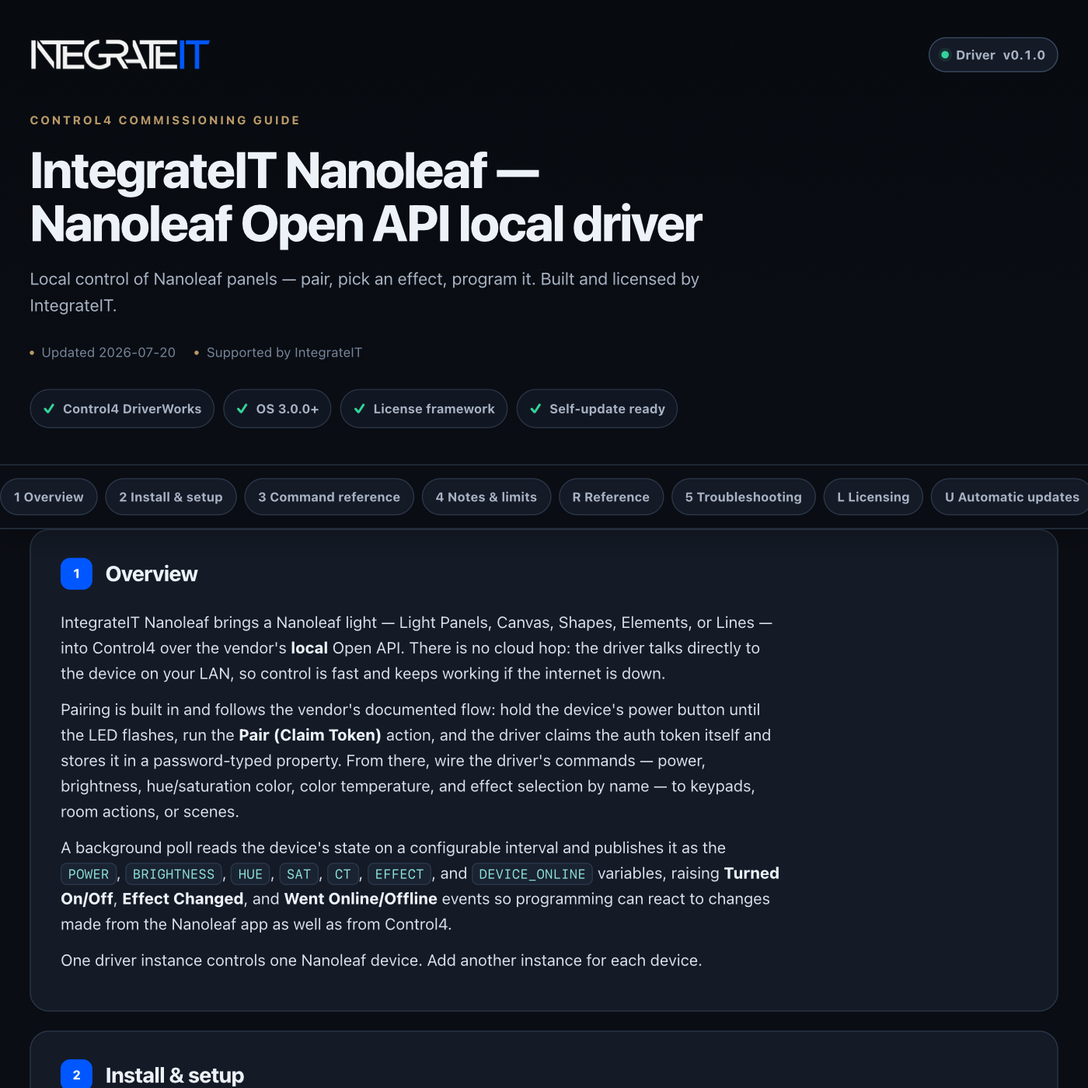
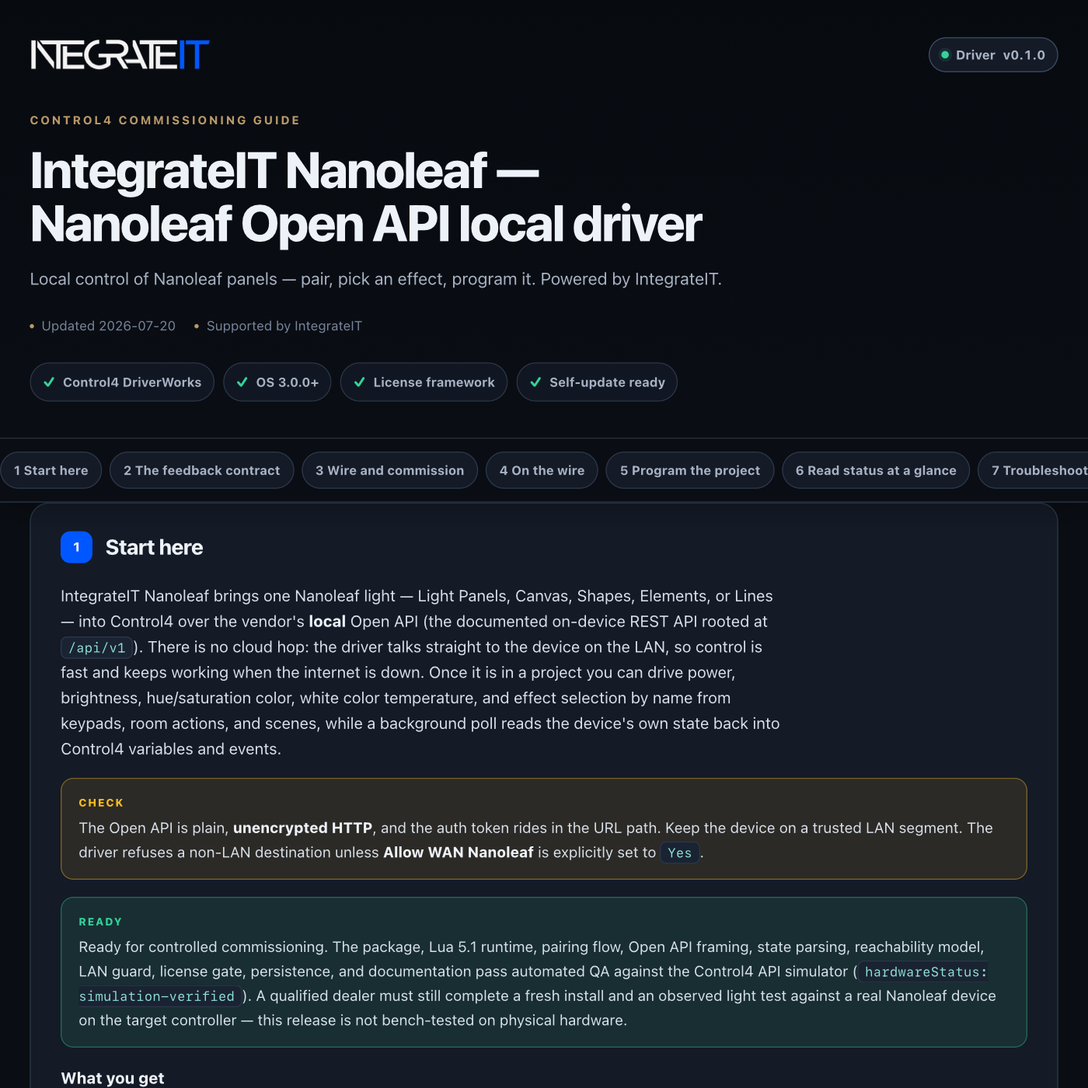
control4: publish driver channel (integrateit_nanoleaf 0.1.1)

diff --git a/control4/integrateit_nanoleaf/documentation.html b/control4/integrateit_nanoleaf/documentation.html
@@ -179,13 +179,13 @@ td code{white-space:normal}
     <div class="wrap">
       <div class="brandbar">
[1 lines of base64/hex data omitted]
-        <span class="version"><span class="word">Driver</span> v0.1.0</span>
+        <span class="version"><span class="word">Driver</span> v0.1.1</span>
       </div>
       <p class="eyebrow">Control4 commissioning guide</p>
       <h1>IntegrateIT Nanoleaf — Nanoleaf Open API local driver</h1>
-      <p class="sub">Local control of Nanoleaf panels — pair, pick an effect, program it. Built and licensed by IntegrateIT.</p>
+      <p class="sub">Local control of Nanoleaf panels — pair, pick an effect, program it. Powered by IntegrateIT.</p>
       <div class="meta">
-        <span>Updated 2026-07-20</span>
+        <span>Updated 2026-07-26</span>
         <span>Supported by IntegrateIT</span>
       </div>
       <div class="readiness" aria-label="Driver capabilities">
@@ -198,58 +198,138 @@ td code{white-space:normal}
   </header>
 
   <div class="toc-wrap">
-    <nav class="toc wrap" aria-label="Documentation sections"><a href="#overview">1 Overview</a><a href="#install">2 Install &amp; setup</a><a href="#commands">3 Command reference</a><a href="#notes">4 Notes &amp; limits</a><a href="#reference">R Reference</a><a href="#troubleshooting">5 Troubleshooting</a><a href="#licensing">L Licensing</a><a href="#updates">U Automatic updates</a><a href="#changelog">V Version history</a></nav>
+    <nav class="toc wrap" aria-label="Documentation sections"><a href="#overview">1 Start here</a><a href="#feedback">2 The feedback contract</a><a href="#setup">3 Wire and commission</a><a href="#protocol">4 On the wire</a><a href="#programming">5 Program the project</a><a href="#status">6 Read status at a glance</a><a href="#troubleshooting">7 Troubleshoot methodically</a><a href="#trust">8 Ownership, privacy, and licensing</a><a href="#reference">R Reference</a><a href="#licensing">L Licensing</a><a href="#updates">U Automatic updates</a><a href="#changelog">V Version history</a></nav>
   </div>
 
   <main class="wrap">
     <section class="card" id="overview" data-card="overview">
-  <h2><span class="n">1</span> Overview</h2>
-  <p>IntegrateIT Nanoleaf brings a Nanoleaf light — Light Panels, Canvas, Shapes, Elements, or Lines — into Control4 over the vendor's <b>local</b> Open API. There is no cloud hop: the driver talks directly to the device on your LAN, so control is fast and keeps working if the internet is down.</p>
-  <p>Pairing is built in and follows the vendor's documented flow: hold the device's power button until the LED flashes, run the <b>Pair (Claim Token)</b> action, and the driver claims the auth token itself and stores it in a password-typed property. From there, wire the driver's commands — power, brightness, hue/saturation color, color temperature, and effect selection by name — to keypads, room actions, or scenes.</p>
-  <p>A background poll reads the device's state on a configurable interval and publishes it as the <code>POWER</code>, <code>BRIGHTNESS</code>, <code>HUE</code>, <code>SAT</code>, <code>CT</code>, <code>EFFECT</code>, and <code>DEVICE_ONLINE</code> variables, raising <b>Turned On/Off</b>, <b>Effect Changed</b>, and <b>Went Online/Offline</b> events so programming can react to changes made from the Nanoleaf app as well as from Control4.</p>
-  <p>One driver instance controls one Nanoleaf device. Add another instance for each device.</p>
+  <h2><span class="n">1</span> Start here</h2>
+  <p>IntegrateIT Nanoleaf brings one Nanoleaf light — Light Panels, Canvas, Shapes, Elements, or Lines — into Control4 over the vendor's <b>local</b> Open API (the documented on-device REST API rooted at <code>/api/v1</code>). There is no cloud hop: the driver talks straight to the device on the LAN, so control is fast and keeps working when the internet is down. Once it is in a project you can drive power, brightness, hue/saturation color, white color temperature, and effect selection by name from keypads, room actions, and scenes, while a background poll reads the device's own state back into Control4 variables and events.</p>
+  <div class="note warn">The Open API is plain, <b>unencrypted HTTP</b>, and the auth token rides in the URL path. Keep the device on a trusted LAN segment. The driver refuses a non-LAN destination unless <b>Allow WAN Nanoleaf</b> is explicitly set to <code>Yes</code>.</div>
+  <div class="note good">Ready for controlled commissioning. The package, Lua 5.1 runtime, pairing flow, Open API framing, state parsing, reachability model, LAN guard, license gate, persistence, and documentation pass automated QA against the Control4 API simulator (<code>hardwareStatus: simulation-verified</code>). A qualified dealer must still complete a fresh install and an observed light test against a real Nanoleaf device on the target controller — this release is not bench-tested on physical hardware.</div>
+  <p><b>What you get</b></p>
+  <ul>
+    <li><b>Power On</b>, <b>Power Off</b>, <b>Toggle Power</b>, <b>Set Brightness</b> (1-100), <b>Set Color</b> (Hue 0-360 + Saturation 0-100), and <b>Set Color Temperature</b> (1200-6500 K white)</li>
+    <li><b>Select Effect</b> by name, with a <b>List Effects</b> action that enumerates every effect on the device</li>
+    <li>Documented pairing built in: hold the power button, run <b>Pair (Claim Token)</b>, and the driver claims and stores the auth token itself</li>
+    <li>A configurable state poll that publishes <code>POWER</code>, <code>BRIGHTNESS</code>, <code>HUE</code>, <code>SAT</code>, <code>CT</code>, <code>EFFECT</code>, and <code>DEVICE_ONLINE</code></li>
+    <li><b>Turned On / Off</b>, <b>Effect Changed</b>, and <b>Went Online / Offline</b> events for Composer programming</li>
+    <li>LAN-only destination guard, an auth token that is never written to the log, and MAC-locked IntegrateIT licensing</li>
+    <li>One driver instance per device — add another instance for each Nanoleaf</li>
+  </ul>
 </section>
 
-<section class="card" id="install" data-card="install">
-  <h2><span class="n">2</span> Install &amp; setup</h2>
+<section class="card" id="feedback" data-card="feedback">
+  <h2><span class="n">2</span> The feedback contract</h2>
+  <p>This driver reports only what the device tells it, and it tells you plainly how it knows:</p>
+  <ul>
+    <li><b>State is polled, not pushed.</b> The driver reads the all-in-one <code>GET /api/v1/&lt;token&gt;/</code> on the <b>Poll Interval</b> (default 5 s). A change made from the Nanoleaf app or a physical button appears on the *next* poll, not instantly — anything claiming instant feedback would be faking it. <b>Refresh State</b> polls immediately when you need it now.</li>
+    <li><b>Boot adoption is silent.</b> The first poll after a (re)start adopts the device's current power and effect *without* firing <b>Turned On/Off</b> or <b>Effect Changed</b> — those fire only on a real change from a value already known. A controller restart wipes what the driver remembered: <code>Device Status</code> reads <code>Unknown</code>, <code>POWER</code> returns to its <code>0</code> default and <code>EFFECT</code> to empty, and the first poll re-primes them silently.</li>
+    <li><b>Reachability is truthful.</b> Any HTTP response — even a <code>401</code> — proves the device is alive and fires <b>Went Online</b>; no response at all (code 0) fires <b>Went Offline</b> and sets <code>DEVICE_ONLINE</code> false. A control write is a reachability check too: a device that dies mid-command flips to Offline immediately instead of waiting for the next poll.</li>
+    <li><b>Toggle is an assumption when state is unknown.</b> The Open API has no toggle verb, so <b>Toggle Power</b> inverts the last polled power. If power has never been observed it turns the light <b>on</b> (documented default) — a Toggle from <code>Unknown</code> is an assumption, not an observation.</li>
+    <li>The driver never invents state values: <code>BRIGHTNESS</code>, <code>HUE</code>, <code>SAT</code>, and <code>CT</code> are the device's own reported numbers, read from the documented <code>{"value":N}</code> shape regardless of JSON key order.</li>
+  </ul>
+</section>
+
+<section class="card" id="setup" data-card="setup">
+  <h2><span class="n">3</span> Wire and commission</h2>
   <ol class="steps">
-    <li>Find the Nanoleaf's <b>IP address</b> (router client list or the Nanoleaf app) and reserve it in your router's DHCP table so it does not change.</li>
-    <li>Add this driver to the device's room. Enter <code>Nanoleaf IP Address</code>. Leave <code>Nanoleaf Port</code> at 16021 for the panel line.</li>
-    <li><b>Pair:</b> hold the device's power button for ~5-7 seconds until the LED starts flashing, then run the <b>Pair (Claim Token)</b> action within 30 seconds. The driver claims the auth token and stores it — you never handle the token yourself.</li>
-    <li>Run <b>Test Connection</b> — it prints the device's name, model, and firmware.</li>
-    <li>Run <b>List Effects</b> and paste your preferred effect name into the <code>Effect</code> property.</li>
-    <li>In Programming, wire the commands (see below), and optionally react to the events or read the variables.</li>
-    <li>Optionally enter a <code>License Key</code> (see Licensing) — the driver runs in Lenient mode without one.</li>
+    <li>Find the Nanoleaf's <b>IP address</b> (router client list or the Nanoleaf app) and reserve it in your router's DHCP table so it never changes.</li>
+    <li>Add <b>IntegrateIT Nanoleaf</b> to the device's room. Enter <b>Nanoleaf IP Address</b>. Leave <b>Nanoleaf Port</b> at <code>16021</code> for the panel line.</li>
+    <li><b>Pair.</b> Hold the device's power button ~5-7 s until the LED flashes, then run <b>Pair (Claim Token)</b> within 30 s. The driver POSTs the claim, stores the returned token in the password-typed <b>Auth Token</b> property, and starts polling. You never handle the token yourself.</li>
+    <li>Run <b>Test Connection</b> — it prints the device's name, model, and firmware and confirms the stored token works.</li>
+    <li>Run <b>List Effects</b> and paste one printed name <b>verbatim</b> into the <b>Effect</b> property — the driver sends it to the device exactly as typed.</li>
+    <li>Wire the commands into Programming (see below); optionally react to the events or read the variables.</li>
+    <li>Optionally enter a <b>License Key</b>. The default <code>Lenient (recommended)</code> mode commissions without one.</li>
+    <li><b>Prove it.</b> Run <b>Power On</b>, or set <b>Brightness</b> and run <b>Set Brightness</b> — watch the light react and <b>Device Status</b> read <code>Online — On, NN%</code>.</li>
   </ol>
+  <div class="note">One driver instance controls one Nanoleaf device. Add a second instance, with its own IP and its own pairing, for each additional Nanoleaf.</div>
 </section>
 
-<section class="card" id="commands" data-card="commands">
-  <h2><span class="n">3</span> Command reference</h2>
-  <ul>
-    <li><b>Power On / Power Off</b> — direct power control. <b>Toggle Power</b> inverts the last polled state (turns on if the state is not yet known).</li>
-    <li><b>Set Brightness</b> sends the <code>Brightness</code> percent (1-100).</li>
-    <li><b>Set Color</b> sends <code>Hue</code> (0-360) and <code>Saturation</code> (0-100) together, switching the device to solid-color mode.</li>
-    <li><b>Set Color Temperature</b> sends the <code>Color Temperature (K)</code> value (1200-6500 K white).</li>
-    <li><b>Select Effect</b> selects the effect named in the <code>Effect</code> property — run <b>List Effects</b> to enumerate the names on the device.</li>
-    <li><b>Refresh State</b> polls immediately instead of waiting for the next interval.</li>
-  </ul>
-  <p><b>Events:</b> *Turned On*, *Turned Off*, *Effect Changed*, *Went Online*, *Went Offline*. <b>Variables:</b> <code>POWER</code>, <code>BRIGHTNESS</code>, <code>HUE</code>, <code>SAT</code>, <code>CT</code>, <code>EFFECT</code>, <code>DEVICE_ONLINE</code>.</p>
+<section class="card" id="protocol" data-card="protocol">
+  <h2><span class="n">4</span> On the wire</h2>
+  <p>Every request is plain JSON over HTTP to <code>http://&lt;ip&gt;:&lt;port&gt;</code>. The auth token is a <b>path segment</b> of every authenticated URL (<code>/api/v1/&lt;token&gt;/…</code>), which makes the URL itself a secret — so the transport <b>never logs a URL</b>, only the method and the sub-path *after* the token. Any body-carrying request declares <code>Content-Type: application/json</code>.</p>
+  <table>
+    <tr><th>Purpose</th><th>Request</th><th>Body / result</th></tr>
+    <tr><td>Claim token (pairing)</td><td><code>POST /api/v1/new</code> (no token)</td><td>none → <code>{"auth_token":"…"}</code></td></tr>
+    <tr><td>Poll state (paired)</td><td><code>GET /api/v1/&lt;token&gt;/</code></td><td>all-in-one device info + state</td></tr>
+    <tr><td>Reachability probe (unpaired)</td><td><code>GET /api/v1/</code> (no token)</td><td>any HTTP response = reachable</td></tr>
+    <tr><td>Power</td><td><code>PUT /api/v1/&lt;token&gt;/state</code></td><td><code>{"on":{"value":true}}</code> / <code>{"on":{"value":false}}</code></td></tr>
+    <tr><td>Brightness</td><td><code>PUT /api/v1/&lt;token&gt;/state</code></td><td><code>{"brightness":{"value":N}}</code></td></tr>
+    <tr><td>Color</td><td><code>PUT /api/v1/&lt;token&gt;/state</code></td><td><code>{"hue":{"value":H},"sat":{"value":S}}</code></td></tr>
+    <tr><td>Color temperature</td><td><code>PUT /api/v1/&lt;token&gt;/state</code></td><td><code>{"ct":{"value":K}}</code></td></tr>
+    <tr><td>Effect</td><td><code>PUT /api/v1/&lt;token&gt;/effects</code></td><td><code>{"select":"Name"}</code></td></tr>
+    <tr><td>List effects</td><td><code>GET /api/v1/&lt;token&gt;/effects/effectsList</code></td><td>the effect-name array</td></tr>
+  </table>
+  <p>Replies the driver acts on: <code>200</code> on a read, any <code>2xx</code> on a write (the state write answers <code>204</code>); <code>401</code> on an authenticated call means the token was rejected (re-pair), while during pairing both <code>401</code> and <code>403</code> mean the pairing window is not open; code <code>0</code> is no response at all (Offline). After a successful write the driver schedules a fast follow-up poll (~400 ms) so published state catches up quickly — the write itself returns no state inline. An effect name is JSON-escaped before it goes on the wire, so a quote in the name can never break out of the payload.</p>
 </section>
 
-<section class="card" id="notes" data-card="notes">
-  <h2><span class="n">4</span> Notes &amp; limits</h2>
+<section class="card" id="programming" data-card="programming">
+  <h2><span class="n">5</span> Program the project</h2>
+  <table>
+    <tr><th>Event</th><th>Fires when</th></tr>
+    <tr><td><code>Turned On</code></td><td>a poll saw power change to on</td></tr>
+    <tr><td><code>Turned Off</code></td><td>a poll saw power change to off</td></tr>
+    <tr><td><code>Effect Changed</code></td><td>the selected effect changed</td></tr>
+    <tr><td><code>Went Online</code></td><td>the device became reachable</td></tr>
+    <tr><td><code>Went Offline</code></td><td>the device stopped responding</td></tr>
+  </table>
+  <table>
+    <tr><th>Variable</th><th>Type</th><th>Meaning</th></tr>
+    <tr><td><code>POWER</code></td><td>BOOL</td><td>Last polled power state</td></tr>
+    <tr><td><code>BRIGHTNESS</code></td><td>STRING</td><td>Last polled brightness percent</td></tr>
+    <tr><td><code>HUE</code> / <code>SAT</code></td><td>STRING</td><td>Last polled hue (0-360) / saturation (0-100)</td></tr>
+    <tr><td><code>CT</code></td><td>STRING</td><td>Last polled white color temperature (K)</td></tr>
+    <tr><td><code>EFFECT</code></td><td>STRING</td><td>Last polled effect name</td></tr>
+    <tr><td><code>DEVICE_ONLINE</code></td><td>BOOL</td><td>Device is currently reachable</td></tr>
+  </table>
+  <p>Three ways these wire into Composer programming:</p>
   <ul>
-    <li><b>Manual IP entry only.</b> mDNS (<code>_nanoleafapi._tcp</code>) and SSDP discovery are documented by Nanoleaf but out of scope for this version — reserve the IP in DHCP.</li>
-    <li><b>Built for the panel line</b> (Light Panels / Canvas / Shapes / Elements / Lines, port 16021). Matter WiFi Essentials products share the API path shape but open their pairing window from the Nanoleaf app and may use a different port; <code>Nanoleaf Port</code> is editable, but Essentials is untested in this version.</li>
-    <li><b>State feedback is polled, not pushed.</b> A change made from the Nanoleaf app appears on the next poll (default 5 seconds), not instantly.</li>
-    <li><b>Local, unencrypted HTTP.</b> Keep the device on a trusted LAN segment. The driver refuses a non-LAN address unless <code>Allow WAN Nanoleaf</code> is set to Yes.</li>
-    <li>The auth token is treated as a secret: the Open API carries it in the URL path, so the driver never writes any URL to the log — even in Debug Mode, log lines show only the path after the token.</li>
-    <li><b>Forget Token</b> clears the stored token locally; the token remains valid on the device until revoked via the vendor's Delete User endpoint or a device reset (not sent by this version).</li>
-    <li>Per-panel external-control streaming, panel layout, rhythm, and identify endpoints are documented by Nanoleaf but out of scope for this version.</li>
+    <li><b>When your Movie scene runs → Select Effect.</b> Set the <b>Effect</b> property to the effect name, then call <b>Select Effect</b> (or <b>Set Color</b> / <b>Set Color Temperature</b>) so one Control4 event drives the panels.</li>
+    <li><b>When Effect Changed fires → read <code>EFFECT</code> and announce it.</b> Because the poll also sees changes made from the Nanoleaf app, Control4 reacts to what the panels actually show, not only to what it commanded.</li>
+    <li><b>When Went Offline fires → notify.</b> <code>DEVICE_ONLINE</code> dropping to false means the panels left the network (moved IP, unplugged) — surface it before someone taps a dead keypad.</li>
   </ul>
+  <p>Control commands are gated by the license: under <code>Strict</code> enforcement an unlicensed controller writes nothing to the device — but polling, pairing, <b>Test Connection</b>, and <b>List Effects</b> stay live, because reading your own device is not a licensed feature. The default <code>Lenient (recommended)</code> mode allows commissioning while <code>License Status</code> carries the nag.</p>
+</section>
+
+<section class="card" id="status" data-card="status">
+  <h2><span class="n">6</span> Read status at a glance</h2>
+  <table>
+    <tr><th>Property</th><th>Healthy result</th><th>What to do otherwise</th></tr>
+    <tr><td><code>Device Status</code></td><td><code>Online — On, 80%, effect …</code></td><td><code>Not paired</code> / <code>Blocked: …</code> / <code>Offline (no response)</code> / <code>Token rejected</code> — act on the exact text</td></tr>
+    <tr><td><code>Device Info</code></td><td><code>name · model · fw version</code></td><td><code>Unknown</code> until the first successful poll — run Test Connection</td></tr>
+    <tr><td><code>Status</code></td><td>The last command, or <code>Idle</code></td><td><code>Blocked: …</code>, <code>Not paired</code>, or <code>Nanoleaf error (HTTP …)</code> — read the reason</td></tr>
+    <tr><td><code>License Status</code></td><td>Activated, or Lenient during commissioning</td><td>Enter a key before selecting Strict enforcement</td></tr>
+  </table>
+  <p><code>Device Status</code> holds exactly one of: <code>Unknown</code>, <code>No Nanoleaf IP set</code>, <code>Blocked: &lt;reason&gt;</code>, <code>Not paired — hold the power button, then run Pair (Claim Token)</code>, <code>Offline (no response)</code>, <code>Online — …</code>, <code>Token rejected (HTTP 401) — re-pair …</code>, or <code>Nanoleaf error (HTTP &lt;code&gt;)</code>.</p>
+  <p><b>Print Configuration</b> writes IP:port, whether a token is set (its length only, never the value), the poll interval, the WAN flag, the color/brightness/CT settings, and the effect to the Lua output window. It never prints the token or the license key.</p>
+</section>
+
+<section class="card" id="troubleshooting" data-card="troubleshooting">
+  <h2><span class="n">7</span> Troubleshoot methodically</h2>
+  <table>
+    <tr><th>Symptom</th><th>Likely cause</th><th>Resolution</th></tr>
+    <tr><td>Nothing responds; <code>Device Status</code> Offline</td><td>Wrong IP, device unplugged, or it moved to a new IP</td><td>Reserve the IP in DHCP; confirm <b>Nanoleaf IP Address</b> and that the device is powered</td></tr>
+    <tr><td>Pair says "Pairing window not open" (HTTP 401/403)</td><td>Power button not held, or the pairing window expired</td><td>Hold the power button ~5-7 s until the LED flashes, then run <b>Pair (Claim Token)</b> again within 30 s</td></tr>
+    <tr><td><code>Device Status</code> reads "Not paired"</td><td>No token stored yet</td><td>Run the pairing flow in <b>Wire and commission</b> step 3</td></tr>
+    <tr><td><code>Device Status</code> reads "Token rejected (HTTP 401)"</td><td>The token was revoked (app reset, device reset)</td><td>Re-pair with <b>Pair (Claim Token)</b></td></tr>
+    <tr><td><code>Device Status</code> reads "Blocked: …"</td><td>Address is not on the LAN (or an IPv6 / URL / numeric host)</td><td>Use the device's LAN IPv4, or set <b>Allow WAN Nanoleaf</b> to <code>Yes</code> only if you really mean to route to it</td></tr>
+    <tr><td>Commands do nothing; <code>Status</code> reads <code>Unlicensed - control disabled (see License Status)</code></td><td><code>License Enforcement</code> is <code>Strict</code> with no activated key</td><td>Enter a <b>License Key</b>, or return <code>License Enforcement</code> to <code>Lenient (recommended)</code>, which keeps control enabled without a key</td></tr>
+    <tr><td><b>Select Effect</b> changes nothing, or <code>Status</code> reads <code>Set the Effect property first…</code></td><td>The <b>Effect</b> property is empty, or the name does not match one on the device</td><td>Run <b>List Effects</b> and paste one printed name verbatim into <b>Effect</b></td></tr>
+    <tr><td>App/button change never reaches Control4</td><td>Feedback is polled, not pushed</td><td>Wait one <b>Poll Interval</b> (default 5 s) or run <b>Refresh State</b>; lower the interval if you need it snappier</td></tr>
+  </table>
+  <div class="note warn">Do not expect push feedback — the Open API is polled here. A change made from the Nanoleaf app or a physical button surfaces on the next poll, never instantly. Design programming around the poll interval, not around instant reflection.</div>
+  <p>If a symptom survives every check above, run <b>Print Configuration</b>, set <b>Debug Mode</b> to <code>Print</code> to watch every call (method + sub-path after the token only — no URL, no token), capture the Lua output window, and send it to support@integrateit.tech · (913) 804-7575.</p>
+</section>
+
+<section class="card" id="trust" data-card="trust">
+  <h2><span class="n">8</span> Ownership, privacy, and licensing</h2>
+  <p>This package is an original IntegrateIT implementation of Nanoleaf's published local Open API. It does not bundle another vendor's runtime, source code, brand assets, trial system, or license. Nanoleaf and the Nanoleaf product names are trademarks of Nanoleaf; IntegrateIT is not affiliated with Nanoleaf, and this driver is not a Nanoleaf product. Driver engineering, Control4 integration, documentation, QA, licensing, updates, and support are provided by IntegrateIT.</p>
+  <p>Nothing leaves the LAN. The driver talks only to the Nanoleaf device on your network — there is no cloud service, no vendor account, and no telemetry. Nanoleaf state, project identity, and Control4 credentials are never sent to a device vendor. The auth token lives in the password-typed <b>Auth Token</b> property; because the Open API carries it in the URL path, the driver never logs a URL — even in Debug Mode, lines show the method and the sub-path after the token only, and <b>Print Configuration</b> prints the token's length, not its value. The Open API has no login or encryption of its own, so LAN access is the whole security model of this device — one more reason to keep it on a trusted segment. <b>Forget Token</b> clears the stored token locally; it stays valid on the device until you revoke it via the vendor's Delete User endpoint or a device reset (this version does not send the device-side revoke).</p>
+  <p><code>Lenient (recommended)</code> mode allows commissioning without an activated key and keeps <code>License Status</code> visible. <code>Strict</code> mode blocks all device control until the Ops Portal has minted and validated a key for this controller; polling and pairing continue either way. Installing this package does not itself mint or activate a controller license. The shared IntegrateIT license and update services use the controller identity, driver slug, version, configured license key, and update channel as documented in the reference below.</p>
 <section class="card" id="reference" data-card="reference">
   <h2><span class="n">R</span> Reference</h2>
-  <p>Generated from the driver manifest at build time — always matches this build (v0.1.0).</p>
+  <p>Generated from the driver manifest at build time — always matches this build (v0.1.1).</p>
   <h3>Properties</h3>
   <table>
     <tr><th>Property</th><th>Type</th><th>Default</th><th>Description</th></tr>
@@ -319,21 +399,6 @@ td code{white-space:normal}
   </table>
 </section>
 </section>
-
-<section class="card" id="troubleshooting" data-card="troubleshooting">
-  <h2><span class="n">5</span> Troubleshooting</h2>
-  <table>
-    <tr><th>Symptom</th><th>Likely cause</th><th>Fix</th></tr>
-    <tr><td>"Pairing window not open" (HTTP 401/403)</td><td>Power button not held, or the 30s window expired</td><td>Hold the power button ~5-7s until the LED flashes, then run <b>Pair (Claim Token)</b> again immediately.</td></tr>
-    <tr><td>"Token rejected (HTTP 401)"</td><td>The token was revoked (app reset, device reset)</td><td>Re-pair: hold the power button, run <b>Pair (Claim Token)</b>.</td></tr>
-    <tr><td><code>Device Status</code> reads "Not paired"</td><td>No token stored yet</td><td>Run the pairing flow in Install &amp; setup step 3.</td></tr>
-    <tr><td><code>Device Status</code> reads "Blocked: …"</td><td>Address is not on the LAN</td><td>Use the device's LAN IP, or set <code>Allow WAN Nanoleaf</code> to Yes if you really mean to route to it.</td></tr>
-    <tr><td>Commands do nothing</td><td>Strict enforcement + unlicensed</td><td>Check <code>License Status</code>; Lenient mode keeps control enabled without a key.</td></tr>
-    <tr><td><code>Device Status</code> stuck Offline</td><td>Device rebooted onto a new IP</td><td>Reserve the IP in DHCP; update <code>Nanoleaf IP Address</code>.</td></tr>
-    <tr><td>Select Effect errors</td><td>Name does not match exactly</td><td>Run <b>List Effects</b> and paste the name verbatim (it is case-sensitive).</td></tr>
-  </table>
-  <div class="note">Turn on <code>Debug Mode → Print</code> to watch every API call (method + path after the token only — no URL or token is ever shown) in the Lua output window.</div>
-</section>
 <section class="card" id="licensing" data-card="licensing">
   <h2><span class="n">L</span> Licensing</h2>
   <p>This driver is licensed <b>per controller</b>. Each license key locks to one controller's
@@ -381,7 +446,9 @@ td code{white-space:normal}
     <section class="card" id="changelog" data-card="changelog">
   <h2><span class="n">V</span> Version history</h2>
   <div class="chg">
-    <div class="rel"><b>v0.1.0</b> <span class="pill green">current</span><span class="d">2026-07-20</span>
+    <div class="rel"><b>v0.1.1</b> <span class="pill green">current</span><span class="d">2026-07-26</span>
+      <ul><li>Documentation rebuilt to the IntegrateIT commissioning-guide standard: uniform sections, honest contracts, verified claim-by-claim against the code.</li></ul></div>
+    <div class="rel"><b>v0.1.0</b><span class="d">2026-07-20</span>
       <ul><li>Fix: every body-carrying write now declares `Content-Type: application/json` (house pattern; the frame was previously sent with no media type).</li><li>Fix: state parsing no longer requires `"value"` to be the first key of each attribute object — a firmware serializing min/max first would have silently blanked POWER/BRIGHTNESS/HUE/SAT/CT.</li><li>Fix: control-write and Test Connection responses now update reachability (DEVICE_ONLINE / Went Online/Offline) — a device dying mid-command previously stayed "online" until the next poll.</li><li>Three regression cases added; runtime suite now 269 checks.</li></ul></div>
     <div class="rel"><b>v0.1.0</b><span class="d">2026-07-20</span>
       <ul><li>Initial release candidate: single-device control over the Nanoleaf Open API (local HTTP, nanoleaf.atlassian.net/wiki/spaces/nlapid).</li><li>Documented pairing built in: Pair (Claim Token) POSTs /api/v1/new during the power-button window and stores the returned auth token in the password-typed property — never printed, never logged.</li><li>Power on/off/toggle, brightness (1-100), hue/saturation color, and color temperature (1200-6500 K) via PUT /api/v1/&amp;lt;token&amp;gt;/state; effect selection by name via PUT /effects with a List Effects enumerator.</li><li>Configurable state poll (GET /api/v1/&amp;lt;token&amp;gt;/) publishes POWER, BRIGHTNESS, HUE, SAT, CT, EFFECT, and DEVICE_ONLINE, and fires Turned On/Off, Effect Changed, and Went Online/Offline; a tokenless probe keeps reachability working before pairing.</li><li>Token-in-URL secret hygiene (no URL ever logged), LAN-only destination guard with an Allow WAN Nanoleaf override, and MAC-locked IntegrateIT licensing on every control path.</li><li>Known limits: panel line (port 16021) only — Essentials untested; manual IP (no mDNS/SSDP); polling not push; Forget Token clears locally only; streaming/layout/rhythm endpoints out of scope.</li></ul></div>

diff --git a/control4/integrateit_nanoleaf/CHANGELOG.md b/control4/integrateit_nanoleaf/CHANGELOG.md
@@ -1,5 +1,8 @@
 # Changelog — IntegrateIT Nanoleaf
 
+## [0.1.1] - 2026-07-26
+- Documentation rebuilt to the IntegrateIT commissioning-guide standard: uniform sections, honest contracts, verified claim-by-claim against the code.
+
 ## [0.1.0] - 2026-07-20 (adversarial review pass, same day)
 - Fix: every body-carrying write now declares `Content-Type: application/json` (house pattern; the frame was previously sent with no media type).
 - Fix: state parsing no longer requires `"value"` to be the first key of each attribute object — a firmware serializing min/max first would have silently blanked POWER/BRIGHTNESS/HUE/SAT/CT.
